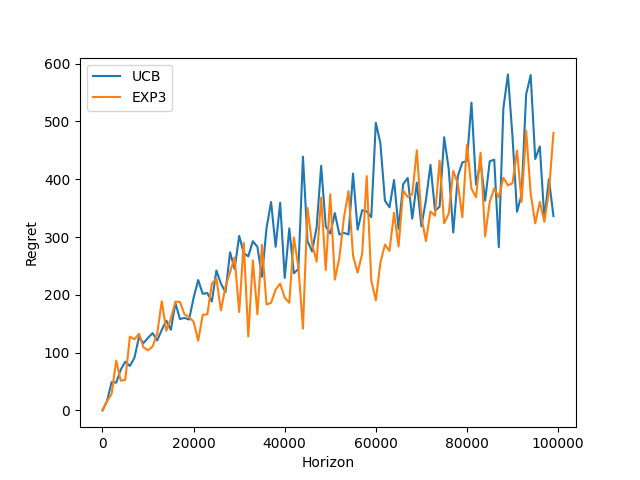
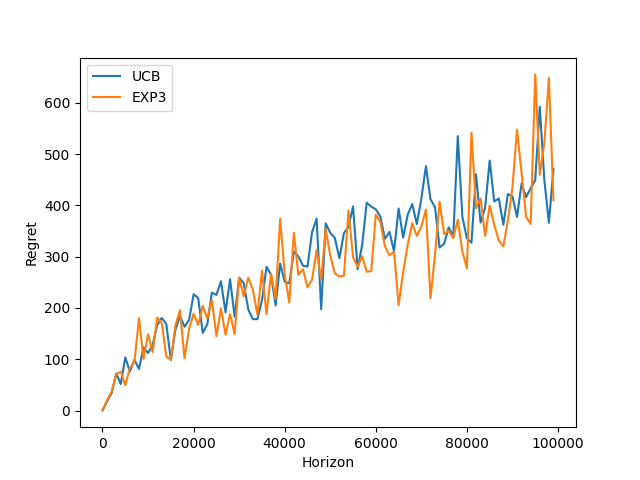
new graphs

diff --git a/BA_ch_11/BA11.py b/BA_ch_11/BA11.py
@@ -76,8 +76,8 @@ def main():
     min_exp3_eta = None
     eta_list = []
     with Pool() as p:
-        results = p.map(bandit.run_experiment_eta, np.arange(0.01, 1, 0.01))
-        for eta, exp3_r in zip(np.arange(0.01, 1, 0.01), results):
+        results = p.map(bandit.run_experiment_eta, np.arange(0.01, 0.1, 0.01))
+        for eta, exp3_r in zip(np.arange(0.01, 0.1, 0.01), results):
             eta_list.append(eta)
             exp3_regret.append(exp3_r)
             if exp3_r < min_exp3_regret:

diff --git a/BA_ch_11/EXP3.py b/BA_ch_11/EXP3.py
@@ -13,10 +13,6 @@ class EXP3(object):
 
     def select_arm(self):
         """Selects the arm to pull."""
-        # Pull each arm once.
-        for arm in range(self.n_arms):
-            if self.counts[arm] == 0:
-                return arm
         # Select the arm with the highest EXP3 value.
         exp3_values = sps.softmax(self.eta * self.S)
         return np.random.choice(self.n_arms, p=exp3_values)
